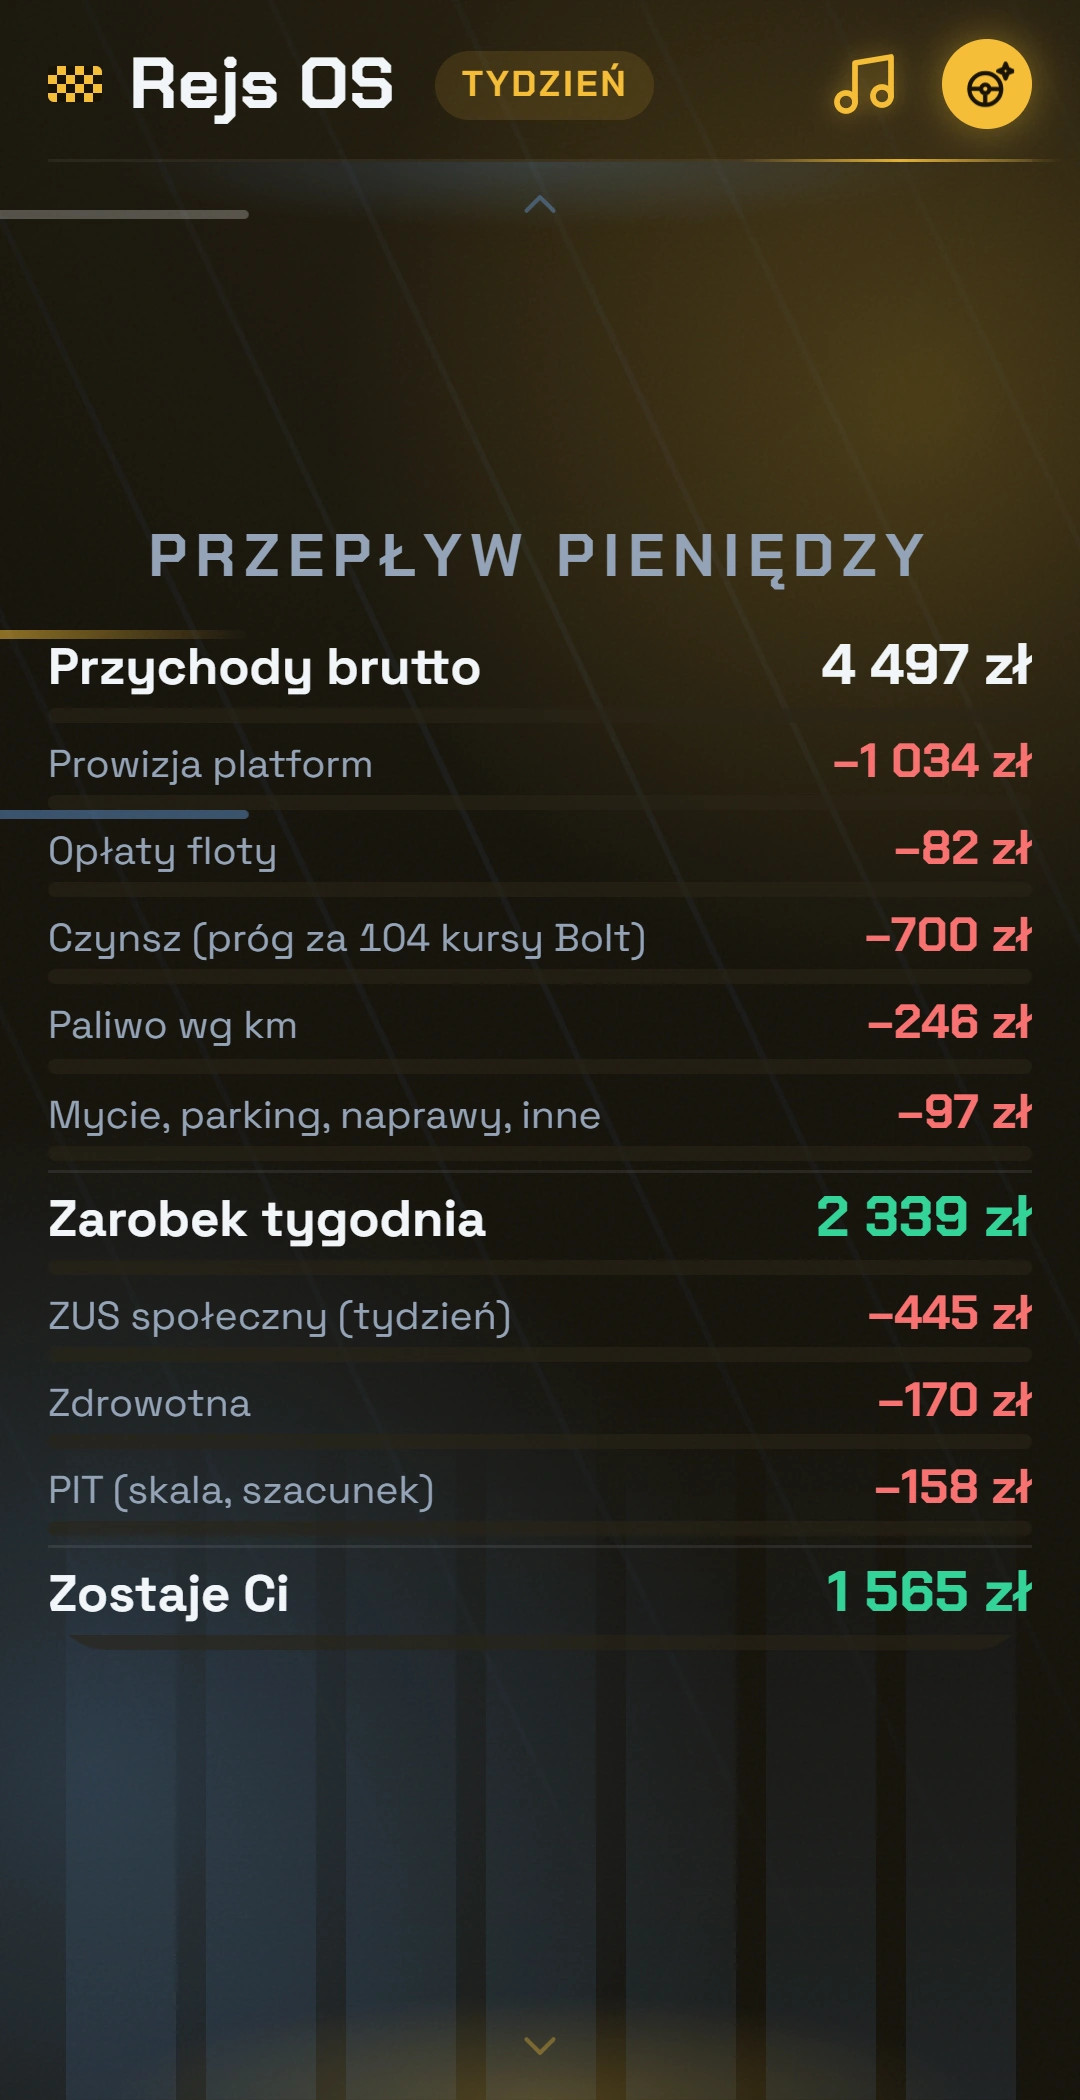
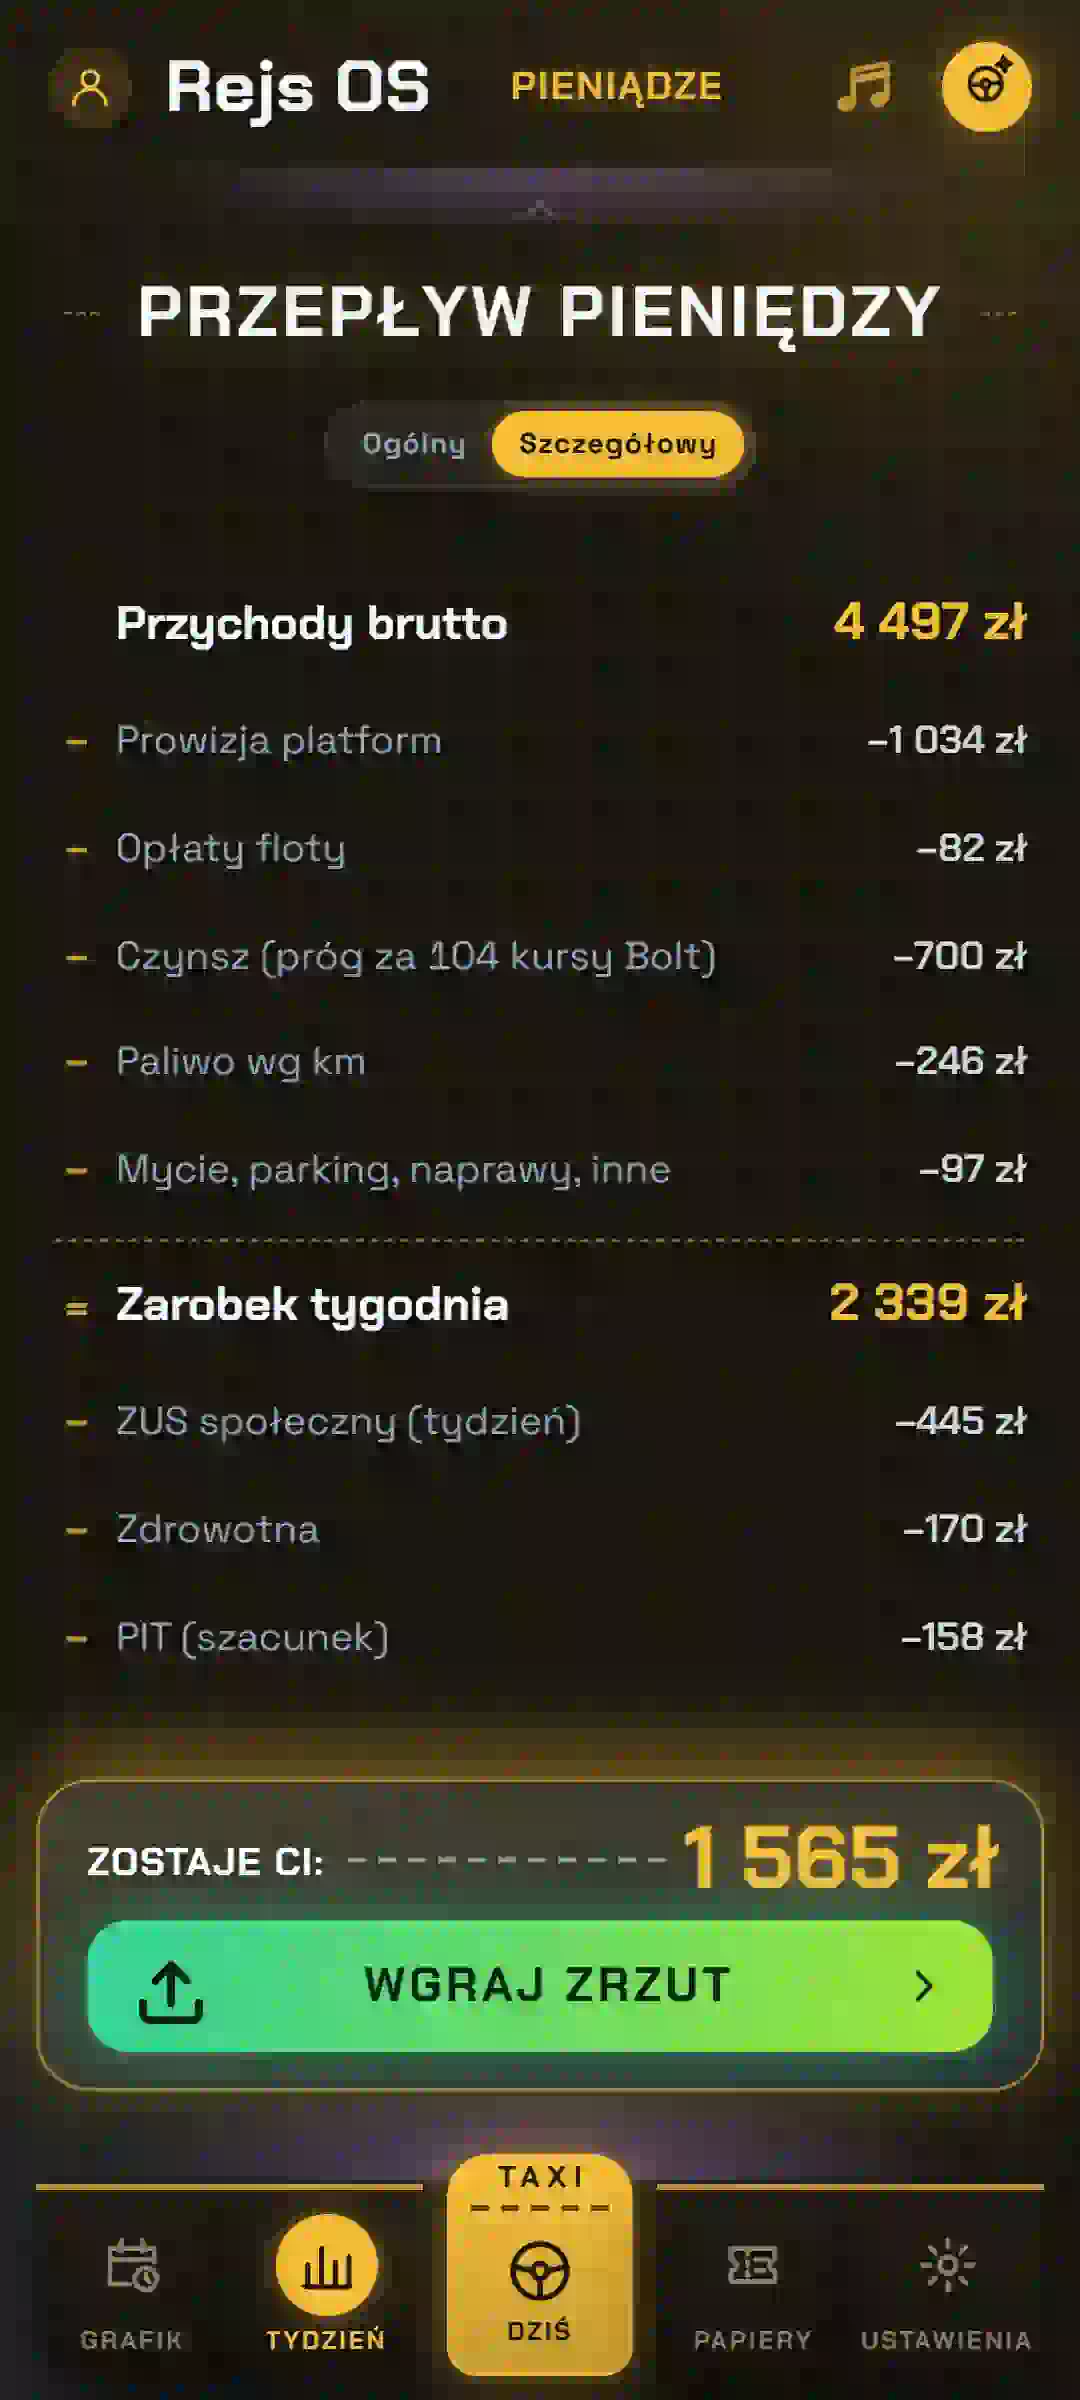
Nowe zrzuty aplikacji (360×800, te same dane demo z 2.11) i dłuższa ramka telefonu
Ekrany po zmianach wyglądu: nowy dock z lampą TAXI, nagłówki, Papiery, Tydzień,
Ustawienia, Playlisty. Zrzuty w proporcjach telefonu 360×800 zamiast 360×700,
ramka telefonu --ar 9 / 20.4 (przycięcie 0–2 %).

diff --git a/style.css b/style.css
@@ -182,7 +182,7 @@ body::before { content: ""; position: fixed; inset: 0 0 auto; height: env(safe-a
 
 /* ---------- Telefon (makieta urządzenia) ---------- */
 .device {
-  --ar: 9 / 19.5;
+  --ar: 9 / 20.4; /* zrzuty 360×800 jak telefon (14.11; wcześniej 9 / 19.5 przy zrzutach 360×700) */
   position: relative; aspect-ratio: var(--ar); padding: 1.9%;
   border-radius: 13% / 6%;
   background: linear-gradient(160deg, #161b21 0%, #0a0d10 50%, #12161b 100%);
